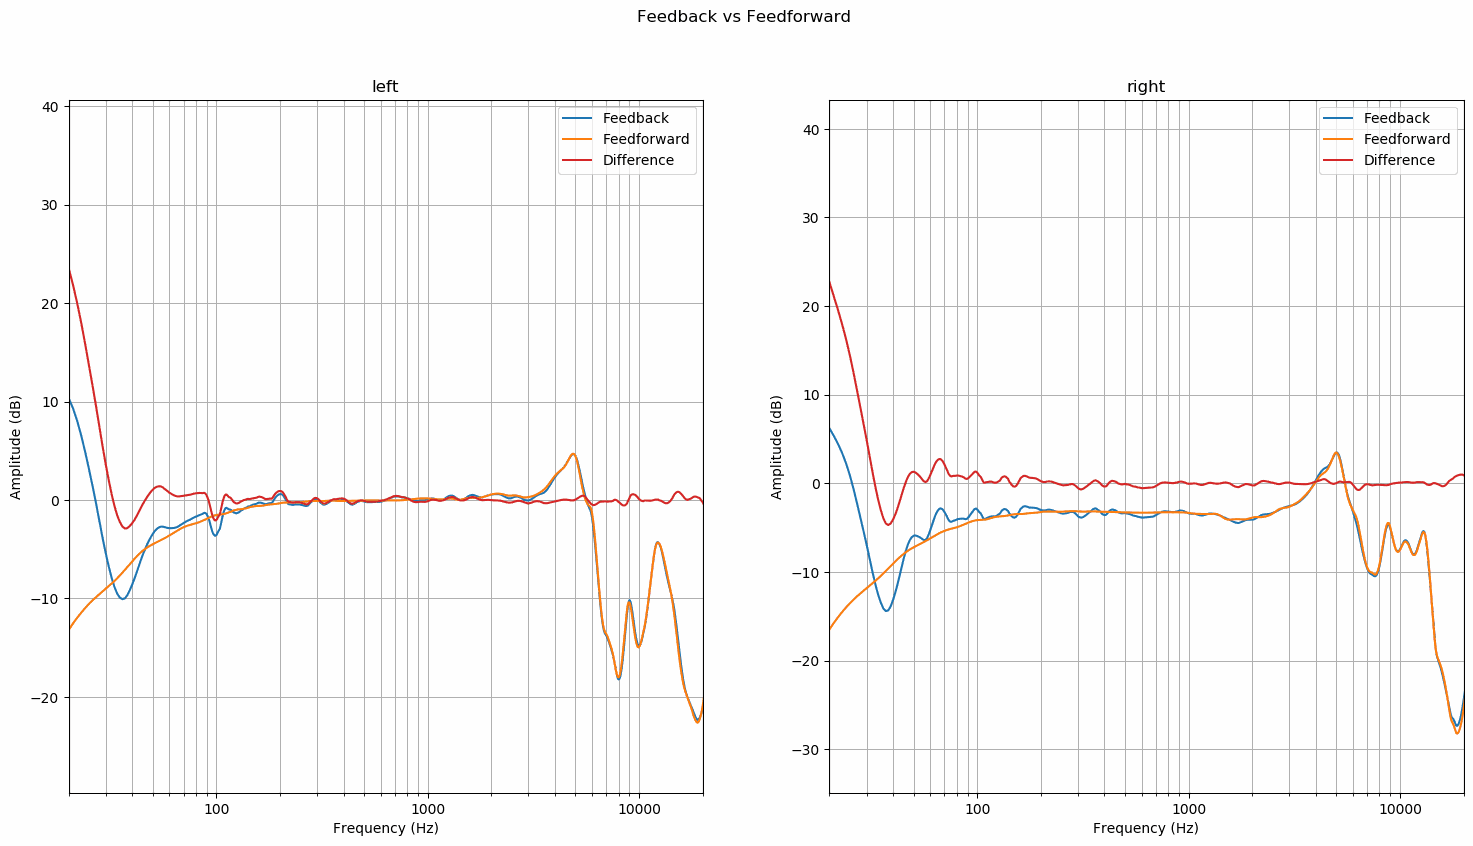
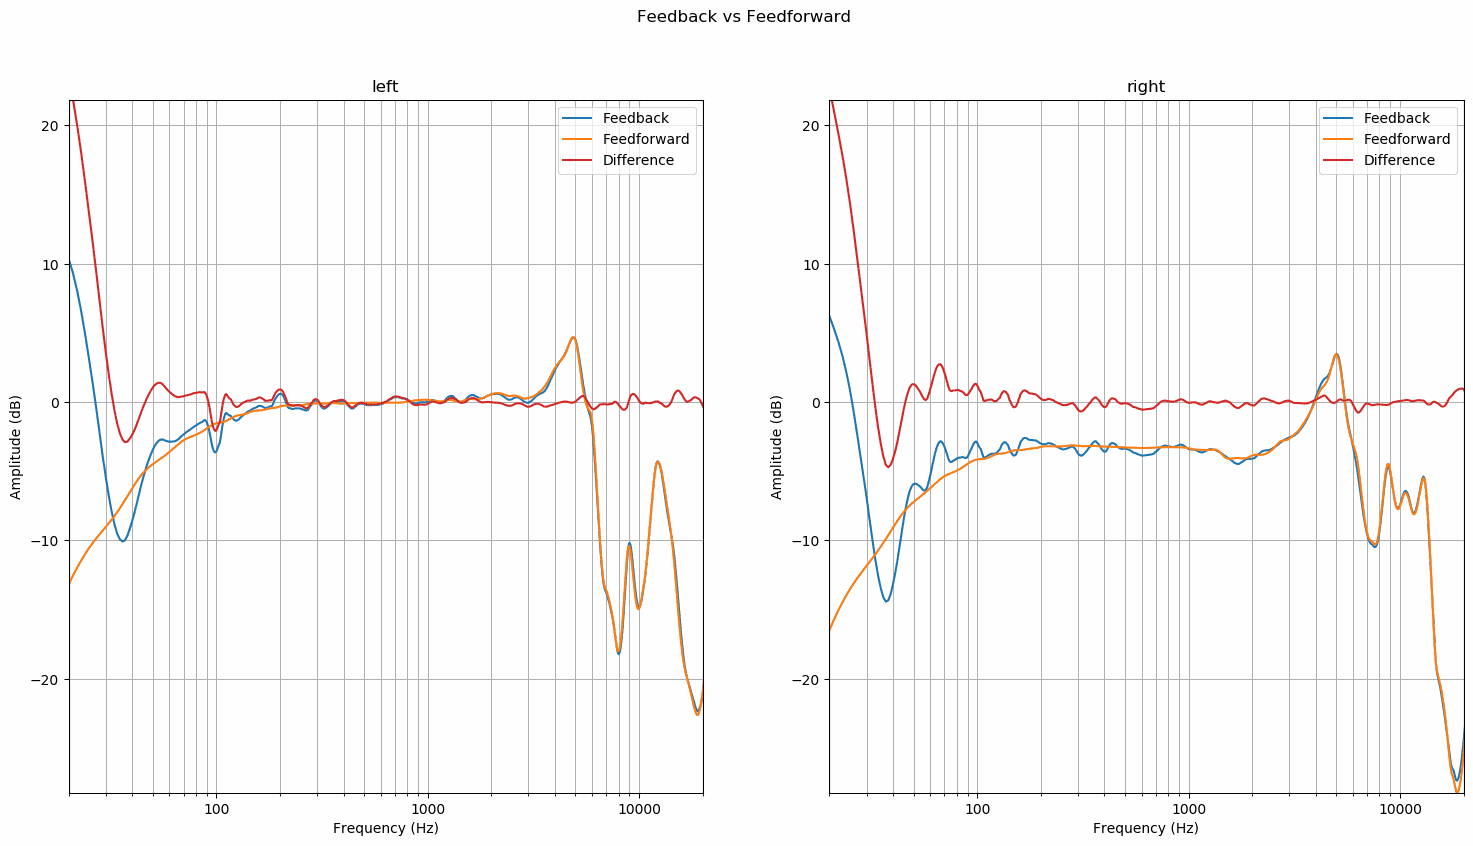
Fixed ylim range in headphone feedback compensation script.

diff --git a/research/headphone-feedback-compensation/compare_headphone_compensation_methods.py b/research/headphone-feedback-compensation/compare_headphone_compensation_methods.py
@@ -115,14 +115,27 @@ def main():
     fig, ax = plt.subplots(1, 2)
     fig.set_size_inches(18, 9)
     fig.suptitle('Feedback vs Feedforward')
+    sl = np.logical_and(feedback_errors['left'].frequency > 20, feedback_errors['left'].frequency < 20000)
+    stack = [
+        feedback_errors['left'].error[sl],
+        feedback_errors['right'].error[sl],
+        feedforward_errors['left'].error_smoothed[sl],
+        feedforward_errors['right'].error_smoothed[sl],
+    ]
     for i, side in enumerate(['left', 'right']):
         config_fr_axis(ax[i])
         ax[i].plot(feedback_errors[side].frequency, feedback_errors[side].error)
         ax[i].plot(feedforward_errors[side].frequency, feedforward_errors[side].error_smoothed)
         difference = feedback_errors[side].error - feedforward_errors[side].error_smoothed
+        stack.append(difference[sl])
         ax[i].plot(feedback_errors[side].frequency, difference, color=COLORS['red'])
         ax[i].set_title(side)
         ax[i].legend(['Feedback', 'Feedforward', 'Difference'])
+
+    stack = np.concatenate(stack)
+    ax[0].set_ylim([np.min(stack), np.max(stack)])
+    ax[1].set_ylim([np.min(stack), np.max(stack)])
+
     save_fig_as_png(os.path.join(DIR_PATH, 'comparison.png'), fig)
     plt.show()
 
